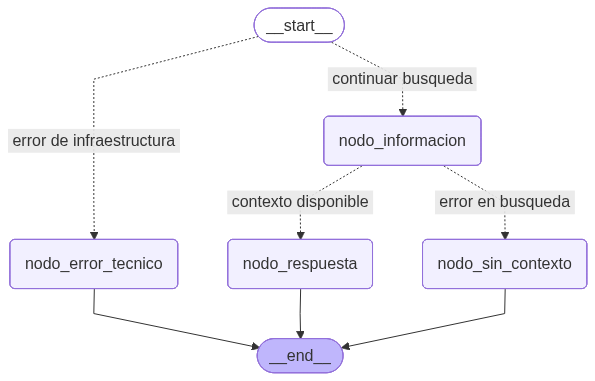
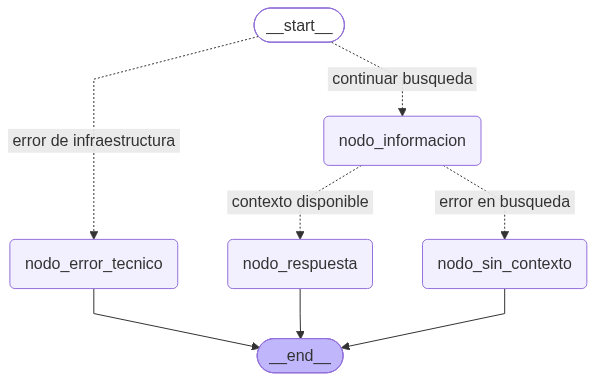
refactor: control de generación de imagen del grafo e implementación de patrón singleton para optimización de recursos.
- Se implementa lógica de patrón singleton en 'agent' para evitar la creación redundante de objetos.
Se añade control para la generación de la imagen del grafo mediante configuración, evitando la creacion reduntante de imagen.

diff --git a/src/agent.py b/src/agent.py
@@ -10,6 +10,9 @@ load_dotenv()
 modelo_gemini = os.getenv("MODELO_GEMINI")
 gemini_api_key = os.getenv("GEMINI_API_KEY")
 
+llm_gemini = GoogleGenerativeAI(model=modelo_gemini,
+                                 google_api_key=gemini_api_key,  temperature=0.3)
+
 class AgentState(TypedDict, total=False):
     pregunta: str
     contexto: List[str] 
@@ -17,16 +20,8 @@ class AgentState(TypedDict, total=False):
 
 
 retriever = None
-vectorstore = procesar_vector_store()
+vectorstore = None
 
-if vectorstore is not None:
-    retriever = vectorstore.as_retriever(
-        search_type="similarity_score_threshold",
-        search_kwargs={"score_threshold": 0.3, "k": 4}
-    )
-
-llm_gemini = GoogleGenerativeAI(model=modelo_gemini,
-                                 google_api_key=gemini_api_key,  temperature=0.3)
 
 SYSTEM_PROMPT = """
 Eres un asistente experto de BimBam Buy, caracterizado por un trato ágil, 
@@ -47,8 +42,38 @@ prompt_template = ChatPromptTemplate.from_messages([
     ("human", "{pregunta}")
 ])
 
+def get_vectorstores():
+
+    global vectorstore
+
+    if vectorstore is None:
+        vectorstore = procesar_vector_store()
+        print("Vectorstore cargado correctamente.")
+        return vectorstore
+    
+    return vectorstore
+
+def get_retriever():
+
+    global retriever, vectorstore
+
+    if retriever is not None:
+        return retriever
+
+    vectorstore = get_vectorstores()
+        
+    if vectorstore is not None:
+        retriever = vectorstore.as_retriever(
+            search_type="similarity_score_threshold",
+            search_kwargs={"score_threshold": 0.3, "k": 4}
+        )
+        print("Retriever inicializado correctamente.")
+    
+    return retriever
 
 def buscar_informacion(state: AgentState):
+
+    global retriever
 
     documentos = retriever.invoke(state["pregunta"])
 
@@ -60,6 +85,8 @@ def buscar_informacion(state: AgentState):
 def generar_respuesta(state: AgentState):
 
     try:
+        global llm_gemini, prompt_template
+
         contexto_unificado = "\n\n".join(state["contexto"])
         
         chain = prompt_template | llm_gemini
@@ -116,6 +143,10 @@ def validar_retriever(state: AgentState):
     Verifica si el retriever está correctamente inicializado (sin este objeto no se puede leer docs).
     --------------------------------------------------------------------------------------------------
     """
+    global retriever
+
+    get_retriever()
+
     if retriever is None:
         print("El retriever no está inicializado. Asegúrate de que la base de datos FAISS se haya cargado correctamente.")
         return "error de infraestructura"

diff --git a/src/graph.py b/src/graph.py
@@ -1,6 +1,6 @@
 from agent import buscar_informacion, generar_respuesta, determinar_siguiente_paso, respuesta_error_infraestructura, respuesta_sin_contexto, validar_retriever, AgentState
 from langgraph.graph import StateGraph, START, END 
-
+import os
 
 grafo_compilado = None
 
@@ -30,7 +30,7 @@ def crear_grafo():
     return workflow.compile()
 
 
-import os
+
 
 def generar_visualizacion(grafo):
     """Genera y guarda la imagen del grafo dentro de la carpeta assets."""
@@ -50,7 +50,7 @@ def generar_visualizacion(grafo):
     except Exception as e:
         print(f"Error al generar la imagen: {e}")
 
-def obtener_agente():
+def obtener_grafo():
     """
     Retorna la instancia única del grafo compilado (Singleton).
     Se compila una sola vez cuando se solicita por primera vez.
@@ -59,24 +59,27 @@ def obtener_agente():
     if grafo_compilado is None:
         grafo_compilado = crear_grafo()
 
-        generar_visualizacion(grafo_compilado)
+        if os.getenv("GENERAR_GRAFO") == "True":
+            generar_visualizacion(grafo_compilado)
 
     return grafo_compilado
 
 def procesar_consulta(pregunta_usuario: str)-> str:
     """
     Función principal para procesar la consulta del usuario.
-    - Obtiene la instancia del grafo de la funcion obtener_agente (patron Singleton).
+    - Obtiene la instancia del grafo de la funcion obtener_grafo (patron Singleton).
     """
 
     print(f"\n--- Procesando consulta: '{pregunta_usuario}' ---")
 
-    grafo = obtener_agente()
+    grafo = obtener_grafo()
     
     estado_inicial = {"pregunta": pregunta_usuario}
     
     resultado = grafo.invoke(estado_inicial)
     
+    print("")
+    print("-"*50)
     print("Respuesta final del agente:")
     print(resultado.get("respuesta", "No se obtuvo respuesta."))
     return resultado.get("respuesta", "No se obtuvo respuesta.")